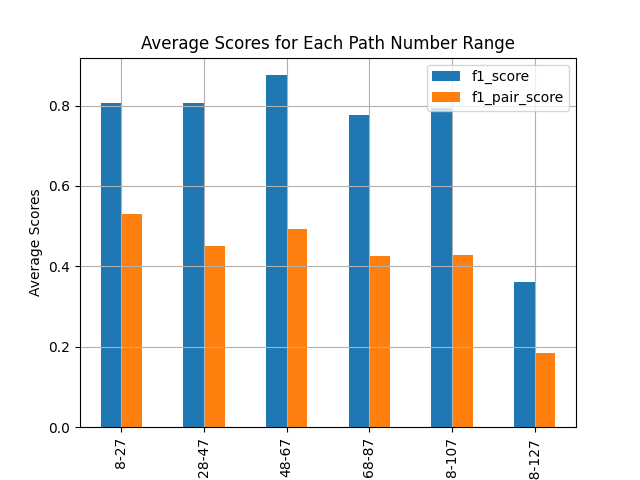
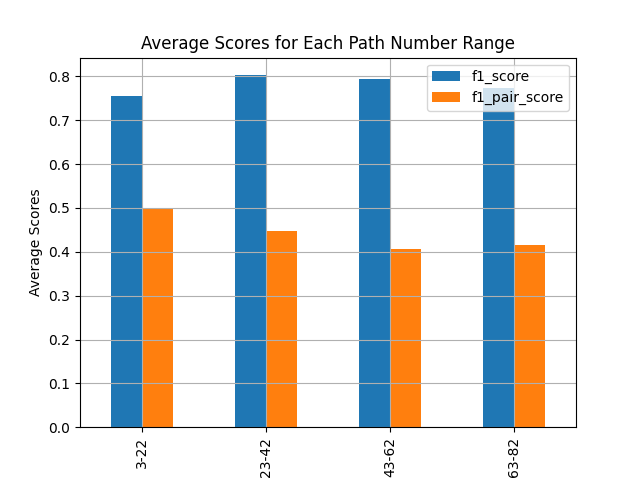
pushed

diff --git a/generate_chart.py b/generate_chart.py
@@ -17,11 +17,11 @@ collection = db["Alpha"]
 data = []
 
 # Query the collection to retrieve the necessary fields
-cursor = collection.find({"node_number": {"$gte": 5}, "path_number": {"$gte": 5}, "date": {"$gte": "2023-11-07 09:00:00"}},
+cursor = collection.find({"node_number": {"$gte": 5}, "date": {"$gte": "2023-11-20 22:00:00"}},
                          {"node_number": 1, "edge_number": 1, "path_number": 1, "f1_score": 1, "f1_pair_score": 1, "_id": 0})
 
 # Print number of documents retrieved
-print(cursor.count(), "documents retrieved.")
+# print(cursor.count(), "documents retrieved.")
 
 # Iterate through the documents and populate the data list
 for doc in cursor:
@@ -35,8 +35,8 @@ grouped = df.groupby(["node_number", "edge_number"])
 
 # Iterate through the grouped data and create CSV files and graphs for each combination
 for (node_number, edge_number), group_data in grouped:
-    filename = f"generated_results/node_{node_number}_edge_{edge_number}_data.csv"
-    group_data.to_csv(filename, index=False)
+    # filename = f"generated_results/node_{node_number}_edge_{edge_number}_data.csv"
+    # group_data.to_csv(filename, index=False)
 
     # Create a bar graph "f1_score" and "f1_pair_score" with "path_number" on the x-axis
     # sort in ascending path number
@@ -44,11 +44,15 @@ for (node_number, edge_number), group_data in grouped:
     # create ranges of 5
     min_path_number = group_data["path_number"].min()
     max_path_number = group_data["path_number"].max()
-    bins = np.arange(min_path_number, max_path_number + 10, 10)
+    gap = (max_path_number - min_path_number)//4
+    bins = np.arange(min_path_number, max_path_number + gap, gap)
     # create a new column in the DataFrame that specifies the bin for each path number
-    group_data["path_number_range"] = pd.cut(group_data["path_number"], bins=bins, labels=[f"{i}-{i+9}" for i in range(min_path_number, max_path_number, 10)])
+    group_data["path_number_range"] = pd.cut(group_data["path_number"], bins=bins, labels=[f"{i}-{i+gap-1}" for i in range(min_path_number, max_path_number, gap)])
     # group the data by path number range and calculate the average scores
     avg_scores = group_data.groupby("path_number_range")[["f1_score", "f1_pair_score"]].mean()
+
+    # avg_scores = group_data.groupby("path_number")[["f1_score", "f1_pair_score"]].mean()
+
     # create a bar chart for the average scores
     plt.figure(figsize=(10, 8))
     avg_scores.plot(kind="bar")
@@ -74,6 +78,8 @@ df["path_number_range"] = pd.cut(df["path_number"], bins=bins, labels=[f"{i}-{i+
 
 # Group the data by path number range and calculate the average scores
 avg_scores = df.groupby("path_number_range")[["f1_score", "f1_pair_score"]].mean()
+
+# avg_scores = df.groupby("path_number")[["f1_score", "f1_pair_score"]].mean()
 
 # Create a bar chart for the average scores
 plt.figure(figsize=(10, 8))

diff --git a/generate_chart_by_size.py b/generate_chart_by_size.py
@@ -1,0 +1,51 @@
+import pymongo
+import pandas as pd
+import matplotlib.pyplot as plt 
+from dotenv import load_dotenv
+import os
+import numpy as np
+
+load_dotenv()
+uri = os.getenv("MONGOURI")
+
+# Connect to your MongoDB database
+client = pymongo.MongoClient(uri)
+db = client["DemoGraph"]
+collection = db["Alpha"]
+
+# Create an empty DataFrame to store the data
+data = []
+
+# Query the collection to retrieve the necessary fields
+cursor = collection.find({"date": {"$gte": "2023-11-20 22:00:00"}}, {"node_number": 1, "edge_number": 1, "path_number": 1, "f1_score": 1, "f1_pair_score": 1, "_id": 0})
+
+# Iterate through the documents and populate the data list
+for doc in cursor:
+    data.append(doc)
+    
+# Create a DataFrame from the data
+df = pd.DataFrame(data)
+
+# Create a bar graph of increasing graph size with fixed number of paths
+# as the number of paths may vary slightly, take a range of paths and calculate the average scores against the range of paths
+# First group by range of paths
+min = 0
+max = 100
+gap = 10
+bins = np.arange(min, max, gap)
+df['path_number_range'] = pd.cut(df['path_number'], bins=bins, labels=[f"{i}-{i+gap-1}" for i in range(min, max-gap, gap)])
+
+grouped = df.groupby("path_number_range")
+
+for path_number, group_data in grouped:
+    # calculate the average scores
+    group_data = group_data.sort_values(by="node_number")
+    avg_scores = group_data.groupby(["node_number", "edge_number"])[["f1_score", "f1_pair_score"]].mean()
+    # create a bar chart for the average scores
+    plt.figure(figsize=(10, 8))
+    avg_scores.plot(kind="bar")
+    plt.xlabel("Graph Size")
+    plt.ylabel("Average Scores")
+    plt.title(f"Number of Paths: {path_number}")
+    plt.savefig(f"by_size/paths_{path_number}.png")
+    plt.close()

diff --git a/prompt.py b/prompt.py
@@ -167,7 +167,7 @@ for n_node, n_edge in zip(n_nodes, n_edges):
                     json_data = {
                         "node_number": n_node,
                         "edge_number": n_edge,
-                        "path_number": len(path_freq),
+                        "path_number": n_path,
                         # we don't control path length yet
                         "avg_path_length": sum([len(path) for path in path_freq.keys()]) / len(path_freq) if len(path_freq) > 0 else -1,
                         "temperature": temperature,

diff --git a/generate_chart_by_paths.py b/generate_chart_by_paths.py
@@ -17,7 +17,7 @@ collection = db["Alpha"]
 data = []
 
 # Query the collection to retrieve the necessary fields
-cursor = collection.find({}, {"path_number": 1, "f1_score": 1, "f1_pair_score": 1, "_id": 0})
+cursor = collection.find({"date": {"$gte": "2023-11-20 22:00:00"}}, {"path_number": 1, "f1_score": 1, "f1_pair_score": 1, "_id": 0})
 
 # Iterate through the documents and populate the data list
 for doc in cursor:
